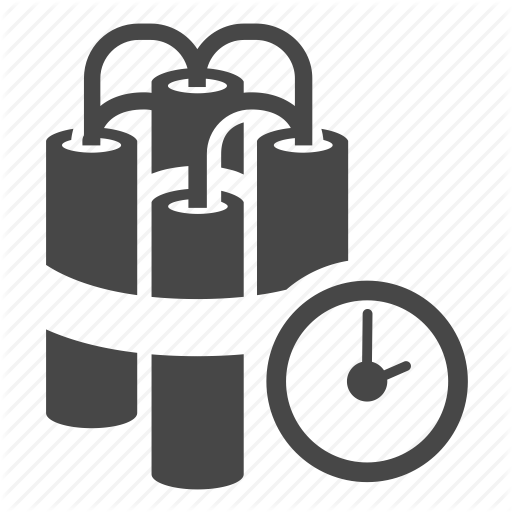
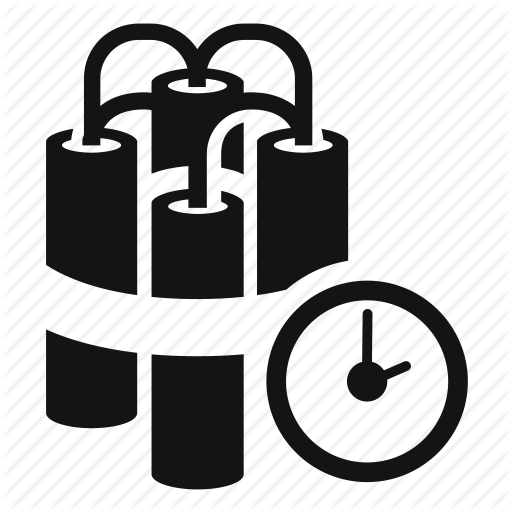
look better on iphone 5

diff --git a/public/js/feartheburger.js b/public/js/feartheburger.js
@@ -1,6 +1,6 @@
 $(document).ready(function(){
     console.log("Populating causes of death");
-    
+
     // Add children to slot machine1
     var CAUSE_OF_DEATH = [
         {id : 'assault-image', name: "Assault"},
@@ -29,8 +29,11 @@ $(document).ready(function(){
     });
 
     function onComplete(active) {
+        //console.log("active=" + active);
         var data = CAUSE_OF_DEATH[active];
         var name = data["name"];
+        //console.log("name=" + name);
+
         $("#machine1Result").text(name);
     }
 

diff --git a/public/stylesheets/icons.css b/public/stylesheets/icons.css
@@ -1,7 +1,7 @@
 .cause-of-death-image {
-    width: 500px;
-    height: 500px;
-    background-size: 500px 500px;
+    width: 100%;
+    height: 300px;
+    background-size: contain;
     background-repeat: no-repeat;
 }
 

diff --git a/public/stylesheets/style.css b/public/stylesheets/style.css
@@ -21,7 +21,7 @@
 
 .randomizeMachine {
     width: 100%;
-    height: 500px;
+    height: 300px;
 }
 
 .btn-group-randomize {
